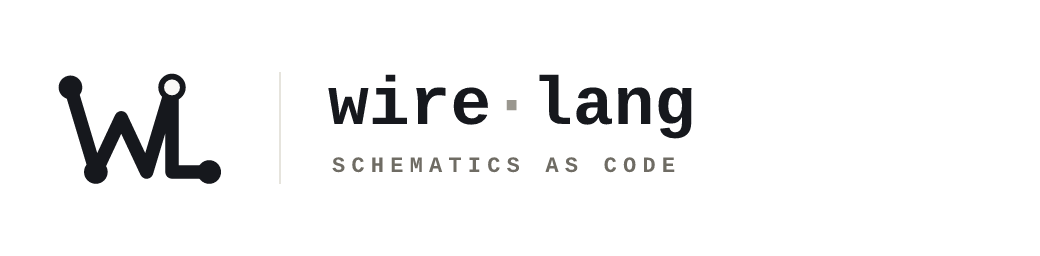
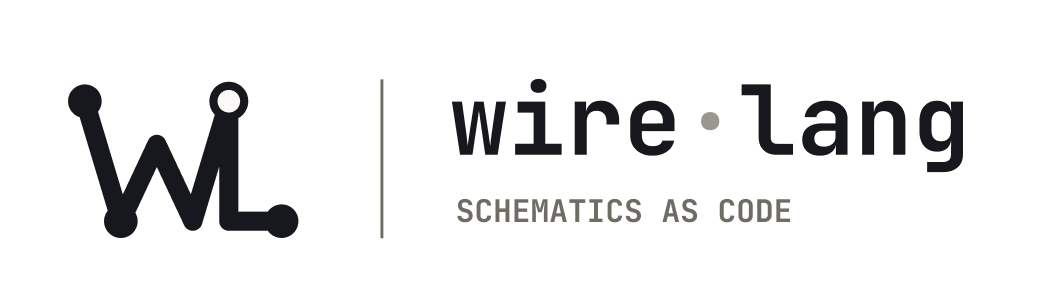
docs: refresh README with sensor controller example
- Add a complete sensor-controller example and rendered schematic
- Update branding assets and example generation tooling
- Streamline installation, usage, and reference documentation

Changed region(s): [[0.3077, 0.25, 0.9231, 0.8125], [0.0308, 0.2812, 0.3077, 0.8125]]

diff --git a/README.md b/README.md
@@ -18,55 +18,110 @@
   <img src="https://img.shields.io/node/v/wire-lang.svg" alt="Node version">
 </p>
 
-**Text-first electronic schematics.** Describe a circuit in a small declarative
-language and render it as a clean, documentation-ready SVG.
+Describe electronic schematics in text and render them as SVG.
 
-## Why Wire Lang
+## This is how you write
 
-LLMs changed how we write software because code is text. Diagrams followed with tools like [Mermaid](https://github.com/mermaid-js/mermaid), giving AI a format it can easily generate, understand, and modify.
+Name the components, declare their pins, and connect them with nets.
+Here is an excerpt from a sensor controller with a button and status LED:
 
-Electronic schematics are still stuck in GUI editors.
+```wire
+schematic
+  title "Sensor controller with status LED"
 
-Wire Lang brings schematics into the AI era with a text-based representation that enables real-time collaboration between engineers and AI. Instead of screenshots and proprietary files, schematics become something AI can reason about, generate, review, and improve.
+  // Declare a button and a green status LED.
+  component SW1 PushButton
+  component D1 LED color=green
 
-Wire Lang is the missing layer between AI and electronic schematics.
+  // Connect named pins to describe each electrical net.
+  net BTN: SW1.1, U2.BTN
+  net LED_OUT: U3.OUT, D1.A
+  // ... full circuit below
+```
 
-## Setup
+<details>
+<summary>View the complete Wire Lang source</summary>
+
+```wire
+schematic
+  title "Sensor controller with status LED"
+  description "A controller reads an I2C sensor, accepts a button input, and controls a status LED through a driver."
+
+  // Declare each block and its named pins. @left and @right set pin sides.
+  // U1: I2C sensor with an interrupt output.
+  component U1 IC pins=[1:VCC@left, 2:GND@left, 3:SCL@right, 4:SDA@right, 5:INT@right]
+  // U2: microcontroller that reads the sensor and button.
+  component U2 IC pins=[1:3V3@left, 2:GND@right, 3:SCL@left, 4:SDA@left, 5:IRQ@left, 6:BTN@left, 7:DRIVE@right, 8:FAULT@right]
+  // U3: LED driver with a fault output back to the controller.
+  component U3 IC pins=[1:VIN@left, 2:GND@left, 3:IN@left, 4:FAULT@left, 5:OUT@right]
+  component SW1 PushButton
+  component D1 LED color=green
+
+  // All blocks share the supply and ground rails.
+  net VCC: U1.VCC, U2.3V3, U3.VIN
+  net GND: U1.GND, U2.GND, U3.GND, SW1.2, D1.C
+
+  // The sensor sends readings over I2C and signals an interrupt on INT.
+  net SCL: U1.SCL, U2.SCL
+  net SDA: U1.SDA, U2.SDA
+  net INT: U1.INT, U2.IRQ
+
+  // The controller commands the driver, which reports faults back.
+  net DRIVE: U2.DRIVE, U3.IN
+  net FAULT: U3.FAULT, U2.FAULT
+
+  // Pressing the button connects BTN to ground. The driver powers the LED.
+  net BTN: SW1.1, U2.BTN
+  net LED_OUT: U3.OUT, D1.A
+
+  // Draw supply rails above and below the blocks, and bundle related signals.
+  render layout=bus-rail
+```
+
+</details>
+
+## This is what you get
+
+The complete source renders as a schematic with shared power rails, a sensor
+bus, and separate control signals.
+
+<img src="./docs/assets/sensor-controller.svg" alt="Sensor controller with an I2C sensor, LED driver, status LED, and push button" width="100%">
+
+## Install and use
 
 ```bash
 npm install wire-lang
 ```
 
-Write a `.wire` file:
-
-```wire
-schematic
-  title "LED current limiting circuit"
-
-  component BT1 Battery voltage=5V
-  component R1 Resistor value=220ohm
-  component D1 LED color=red
-
-  net VCC: BT1.+, R1.1
-  connect R1.2, D1.A
-  net GND: D1.C, BT1.-
-
-  annotation "Current limiting resistor" near R1
-```
-
-Render it from the CLI:
+Save the [complete source](./examples/sensor-controller.wire) as
+`sensor-controller.wire`, then render it:
 
 ```bash
-npx wire render led.wire --out led.svg
+npx wire render sensor-controller.wire --out sensor-controller.svg
 ```
 
-…or from JavaScript/TypeScript:
+Open `sensor-controller.svg` to view the schematic. To render from JavaScript or TypeScript:
 
 ```ts
 import { renderSvg } from "wire-lang";
 
 const svg = renderSvg(source);
 ```
+
+## AI skill
+
+Install the [Wire Lang authoring skill](./skills/wire-lang/SKILL.md) to teach your
+AI assistant the syntax, component library, and validation workflow:
+
+```bash
+npx skills add eduardozf/wire-lang --skill wire-lang
+```
+
+Agents can validate source with `wire check sensor-controller.wire --json`. The parser returns
+a partial AST for invalid input, with source locations and suggested fixes in
+its diagnostics.
+
+## Markdown and MDX
 
 Write the same source inside a Markdown or MDX fence:
 
@@ -100,71 +155,7 @@ For ahead-of-time rendering with no browser runtime, use `remarkWire` or
 `rehypeWire` from `@wire-lang/markdown` with `{ mode: "static" }`. See the
 [Markdown/MDX guide](./packages/markdown) for complete build configuration.
 
-## How it compares
-
-Think **[Mermaid Charts](https://github.com/mermaid-js/mermaid), but for electronic schematics**: text goes in, documentation-
-friendly diagrams come out. The difference is that Wire Lang models real
-electrical nets, terminals, and components instead of flowchart boxes and arrows.
-
-## Use with AI
-
-Wire Lang is built for AI-assisted authoring:
-
-- `parse(source)` returns a partial AST even for invalid input, and every
-  diagnostic carries a source location and suggested fix — so agents can
-  self-correct.
-- The CLI speaks JSON for scripts and agents: `wire check led.wire --json`.
-- A bundled [Agent Skill](./skills/wire-lang/SKILL.md) teaches assistants the
-  syntax and component library so they generate valid `.wire` source.
-
-Install the authoring skill with the open Agent Skills CLI:
-
-```bash
-npx skills add eduardozf/wire-lang --skill wire-lang
-```
-
-## Examples
-
-| LED current limiter                                                                                                    | Soil sensor (bus-rail)                                                                               | Bus-rail block diagram                                                                                |
-| ---------------------------------------------------------------------------------------------------------------------- | ---------------------------------------------------------------------------------------------------- | ----------------------------------------------------------------------------------------------------- |
-| <img src="./docs/assets/led-current-limiter.svg" alt="LED current limiting circuit rendered by Wire Lang" width="260"> | <img src="./docs/assets/soil-sensor.svg" alt="Soil sensor module rendered by Wire Lang" width="260"> | <img src="./docs/assets/bus-rail.svg" alt="Bus-rail block diagram rendered by Wire Lang" width="260"> |
-
-See the [full gallery](./docs/EXAMPLES.md) and source in [examples/](./examples).
-
----
-
 ## Reference
-
-### The language
-
-Wire Lang separates the electrical model from the rendered drawing. In the
-source below, `R1`/`D1` are component instances, `Resistor`/`LED` are types,
-`VCC`/`GND` are nets, and `connect` makes an anonymous net. Visual wires are
-renderer output, not the source of truth.
-
-```wire
-schematic
-  component R1 Resistor value=10k
-  component D1 LED color=red
-
-  net VCC: R1.1
-  connect R1.2, D1.A
-  net GND: D1.C
-```
-
-Components can also be defined locally, including overriding a built-in symbol:
-
-```wire
-define component SoilSensor
-  terminal VCC
-  terminal GND
-  terminal AOUT
-  terminal DOUT
-  symbol module
-end
-
-component S1 SoilSensor
-```
 
 ### API
 
@@ -182,53 +173,14 @@ stage's output. Packages are ESM-only and target Node.js 20+.
 ### CLI
 
 ```bash
-wire check  examples/led.wire            # validate
-wire render examples/led.wire --out led.svg
-wire watch  examples/led.wire --out led.svg
+wire check  examples/sensor-controller.wire            # validate
+wire render examples/sensor-controller.wire --out sensor-controller.svg
+wire watch  examples/sensor-controller.wire --out sensor-controller.svg
 ```
 
 Add `--json` to `check`/`render` for machine-readable output. Exit codes: `0`
 success (incl. warnings), `1` source/render errors, `2` usage or I/O problems.
 There is no preview server; open the generated SVG directly.
-
-### Standard components
-
-`Resistor`, `Capacitor`, `PolarizedCapacitor`, `Inductor`, `Diode`, `LED`,
-`NPNTransistor`, `PNPTransistor`, `Battery`, `GroundReference`, `SPSTSwitch`,
-`PushButton`, `Header`.
-
-Wire Lang uses IEC-style conventions where practical with original, open-source
-symbol art; it does not claim formal IEC/IEEE compliance. See
-[CONTRIBUTING.md](./.github/CONTRIBUTING.md) for the artwork policy.
-
-### Packages & development
-
-| Package                                      | Role                                                        |
-| -------------------------------------------- | ----------------------------------------------------------- |
-| [`wire-lang`](./packages/wire-lang)          | User-facing aggregate package and the `wire` binary         |
-| [`@wire-lang/core`](./packages/core)         | Parser, compiler, schematic model, layout engine, renderer  |
-| [`@wire-lang/cli`](./packages/cli)           | `wire check`, `wire render`, `wire watch`                   |
-| [`@wire-lang/browser`](./packages/browser)   | Asynchronous rendering after HTML loads                     |
-| [`@wire-lang/markdown`](./packages/markdown) | Markdown and MDX integration with optional static rendering |
-
-```bash
-pnpm install
-pnpm build   # tsup build + tsc typecheck
-pnpm test    # vitest
-```
-
-### Scope
-
-The MVP is implemented: a working `parse → compile → layout → renderSvg`
-pipeline plus the CLI. Scope is intentionally narrow — schematic documentation,
-not simulation, PCB/breadboard layout, BOMs, or editor integrations. See
-[docs/MVP.md](./docs/MVP.md) for the full specification.
-
-## Documentation
-
-- [MVP specification](./docs/MVP.md) · [Example gallery](./docs/EXAMPLES.md) · [Domain vocabulary](./docs/CONTEXT.md)
-- [Architecture decisions](./docs/adr/) · [Brand assets](./docs/brand/)
-- [Contributing](./.github/CONTRIBUTING.md) · [Code of conduct](./.github/CODE_OF_CONDUCT.md) · [Support](./.github/SUPPORT.md) · [Security](./.github/SECURITY.md) · [Changelog](./CHANGELOG.md)
 
 ## Contributing
 
